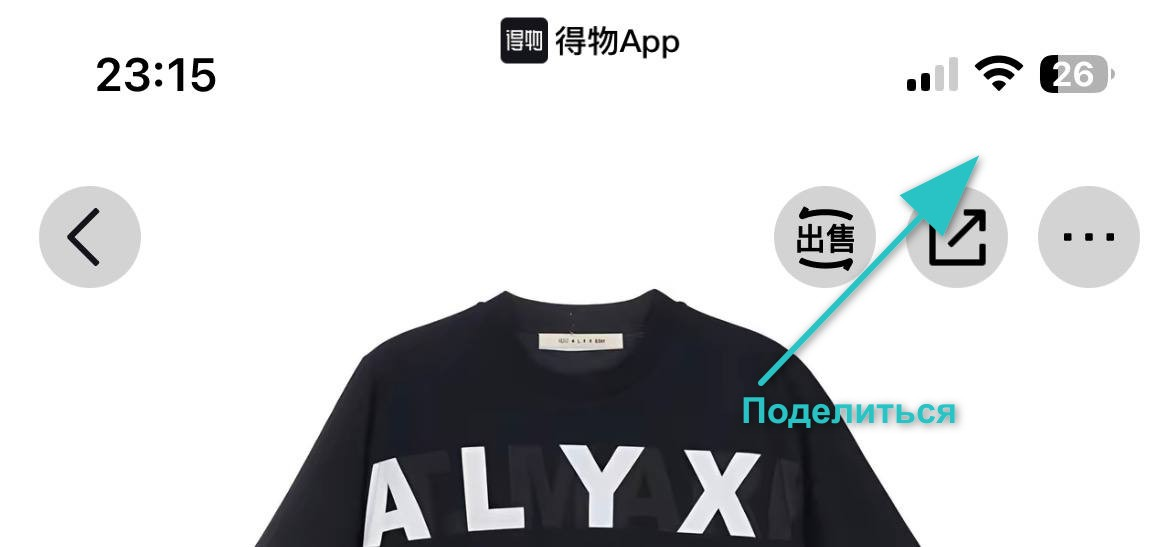
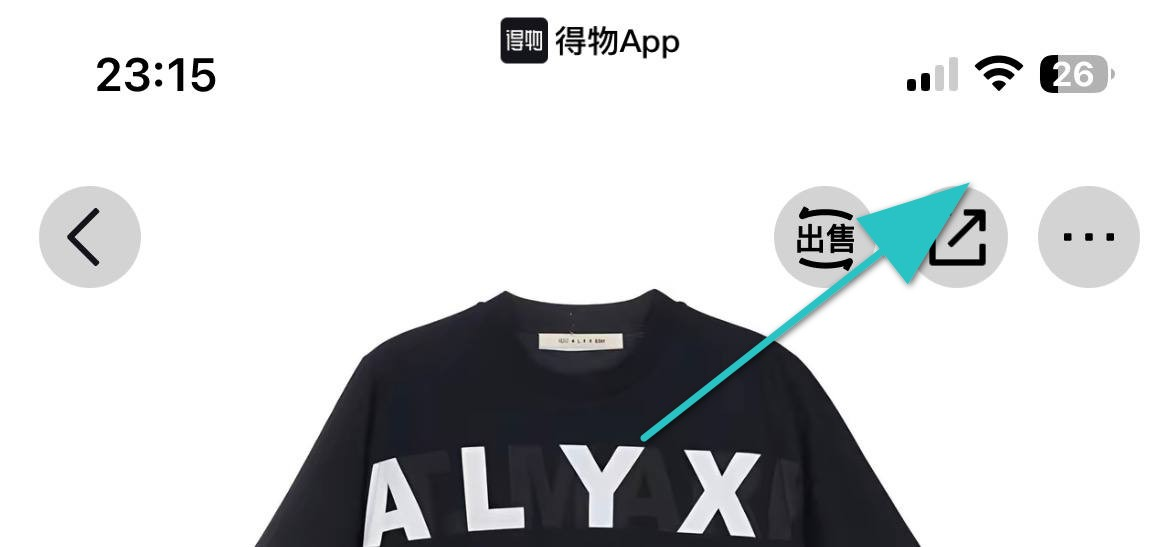
feat: add visual guide to calculator hint, update FAQ text

Changed region(s): [[0.5846, 0.2797, 0.8615, 0.808], [0.5231, 0.7459, 0.5846, 0.808]]

diff --git a/apps/web/app/(tabs)/calculator/page.tsx b/apps/web/app/(tabs)/calculator/page.tsx
@@ -359,7 +359,7 @@ export default function CalculatorPage() {
               <p className="font-medium text-white">Из приложения Dewu (Poizon):</p>
 
               <div className="space-y-1">
-                <p>1. Откройте карточку товара и нажмите кнопку «Поделиться»:</p>
+                <p>1. Откройте карточку товара и нажмите кнопку:</p>
                 <img
                   src="/help/dewu-step1.jpg"
                   alt="Нажмите кнопку Поделиться"
@@ -370,7 +370,7 @@ export default function CalculatorPage() {
               </div>
 
               <div className="space-y-1">
-                <p>2. Выберите «Скопировать ссылку» (复制链接):</p>
+                <p>2. Выберите «Скопировать ссылку»:</p>
                 <img
                   src="/help/dewu-step2.jpg"
                   alt="Нажмите Скопировать ссылку"
@@ -379,10 +379,6 @@ export default function CalculatorPage() {
                   decoding="async"
                 />
               </div>
-
-              <p>3. Вставьте скопированную ссылку в поле выше.</p>
-
-              <p className="pt-1">Поддерживаются короткие ссылки <span className="rounded bg-white/10 px-1.5 py-0.5 font-mono text-white">dw4.co</span> и прямые ссылки Dewu.</p>
             </div>
           ) : null}
         </div>

diff --git a/apps/web/app/(tabs)/profile/page.tsx b/apps/web/app/(tabs)/profile/page.tsx
@@ -34,7 +34,7 @@ const FAQ_ITEMS = [
   },
   {
     question: 'Можно ли вернуть товар?',
-    answer: 'Возврат и обмен возможны только в случае брака или несоответствия описанию. Свяжитесь с менеджером.',
+    answer: 'Возврат возможен только если товар еще не прибыл на склад в Китае. Свяжитесь с менеджером.',
   },
   {
     question: 'Как происходит оплата?',
